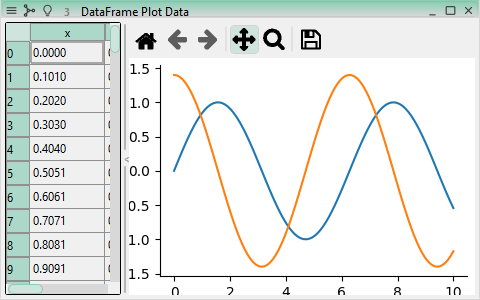
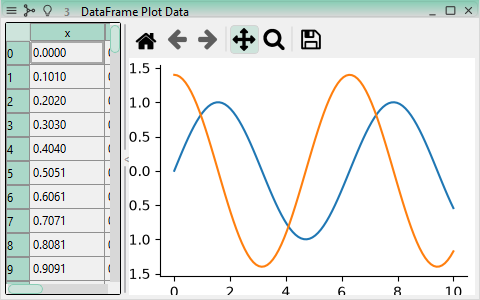
Deployed f699102b with MkDocs version: 1.6.1

diff --git a/api/plugins/index.html b/api/plugins/index.html
@@ -1402,6 +1402,17 @@
 </li>
       
         <li class="md-nav__item">
+  <a href="#himena.plugins.get_global_config" class="md-nav__link">
+    <span class="md-ellipsis">
+      
+        get_global_config
+      
+    </span>
+  </a>
+  
+</li>
+      
+        <li class="md-nav__item">
   <a href="#himena.plugins.install_plugins" class="md-nav__link">
     <span class="md-ellipsis">
       
@@ -2063,6 +2074,17 @@
     <span class="md-ellipsis">
       
         configure_submenu
+      
+    </span>
+  </a>
+  
+</li>
+      
+        <li class="md-nav__item">
+  <a href="#himena.plugins.get_global_config" class="md-nav__link">
+    <span class="md-ellipsis">
+      
+        get_global_config
       
     </span>
   </a>
@@ -4490,6 +4512,33 @@ be passed as variable keyword arguments **kwargs.</p>
 <div class="doc doc-object doc-function">
 
 
+<h4 id="himena.plugins.get_global_config" class="doc doc-heading">
+            <code class="highlight language-python"><span class="n">get_global_config</span><span class="p">()</span></code>
+
+</h4>
+
+
+    <div class="doc doc-contents ">
+
+        <p>Get the himena global config.</p>
+
+
+            <details class="mkdocstrings-source">
+              <summary>Source code in <code>src\himena\plugins\__init__.py</code></summary>
+              <div class="highlight"><table class="highlighttable"><tr><td class="linenos"><div class="linenodiv"><pre><span></span><span class="normal">42</span>
+<span class="normal">43</span>
+<span class="normal">44</span></pre></div></td><td class="code"><div><pre><span></span><code><span class="k">def</span><span class="w"> </span><span class="nf">get_global_config</span><span class="p">()</span> <span class="o">-&gt;</span> <span class="n">GlobalConfig</span><span class="p">:</span>
+<span class="w">    </span><span class="sd">&quot;&quot;&quot;Get the himena global config.&quot;&quot;&quot;</span>
+    <span class="k">return</span> <span class="n">get_config</span><span class="p">(</span><span class="n">GlobalConfig</span><span class="p">)</span> <span class="ow">or</span> <span class="n">GlobalConfig</span><span class="p">()</span>
+</code></pre></div></td></tr></table></div>
+            </details>
+    </div>
+
+</div>
+
+<div class="doc doc-object doc-function">
+
+
 <h4 id="himena.plugins.install_plugins" class="doc doc-heading">
             <code class="highlight language-python"><span class="n">install_plugins</span><span class="p">(</span><span class="n">app</span><span class="p">,</span> <span class="n">plugins</span><span class="p">)</span></code>
 
@@ -4934,10 +4983,7 @@ the plugin's settings.</p>
 
             <details class="mkdocstrings-source">
               <summary>Source code in <code>src\himena\plugins\install.py</code></summary>
-              <div class="highlight"><table class="highlighttable"><tr><td class="linenos"><div class="linenodiv"><pre><span></span><span class="normal">135</span>
-<span class="normal">136</span>
-<span class="normal">137</span>
-<span class="normal">138</span>
+              <div class="highlight"><table class="highlighttable"><tr><td class="linenos"><div class="linenodiv"><pre><span></span><span class="normal">138</span>
 <span class="normal">139</span>
 <span class="normal">140</span>
 <span class="normal">141</span>
@@ -4980,7 +5026,10 @@ the plugin's settings.</p>
 <span class="normal">178</span>
 <span class="normal">179</span>
 <span class="normal">180</span>
-<span class="normal">181</span></pre></div></td><td class="code"><div><pre><span></span><code><span class="k">def</span><span class="w"> </span><span class="nf">register_config</span><span class="p">(</span><span class="n">plugin_id</span><span class="p">:</span> <span class="nb">str</span><span class="p">,</span> <span class="n">title</span><span class="p">:</span> <span class="nb">str</span><span class="p">,</span> <span class="n">cfg</span><span class="p">:</span> <span class="n">PluginConfigType</span><span class="p">)</span> <span class="o">-&gt;</span> <span class="kc">None</span><span class="p">:</span>
+<span class="normal">181</span>
+<span class="normal">182</span>
+<span class="normal">183</span>
+<span class="normal">184</span></pre></div></td><td class="code"><div><pre><span></span><code><span class="k">def</span><span class="w"> </span><span class="nf">register_config</span><span class="p">(</span><span class="n">plugin_id</span><span class="p">:</span> <span class="nb">str</span><span class="p">,</span> <span class="n">title</span><span class="p">:</span> <span class="nb">str</span><span class="p">,</span> <span class="n">cfg</span><span class="p">:</span> <span class="n">PluginConfigType</span><span class="p">)</span> <span class="o">-&gt;</span> <span class="kc">None</span><span class="p">:</span>
 <span class="w">    </span><span class="sd">&quot;&quot;&quot;Register a plugin-specific configuration.</span>
 
 <span class="sd">    Registered options can be accessed by the `get_config` function. Note that a plugin</span>